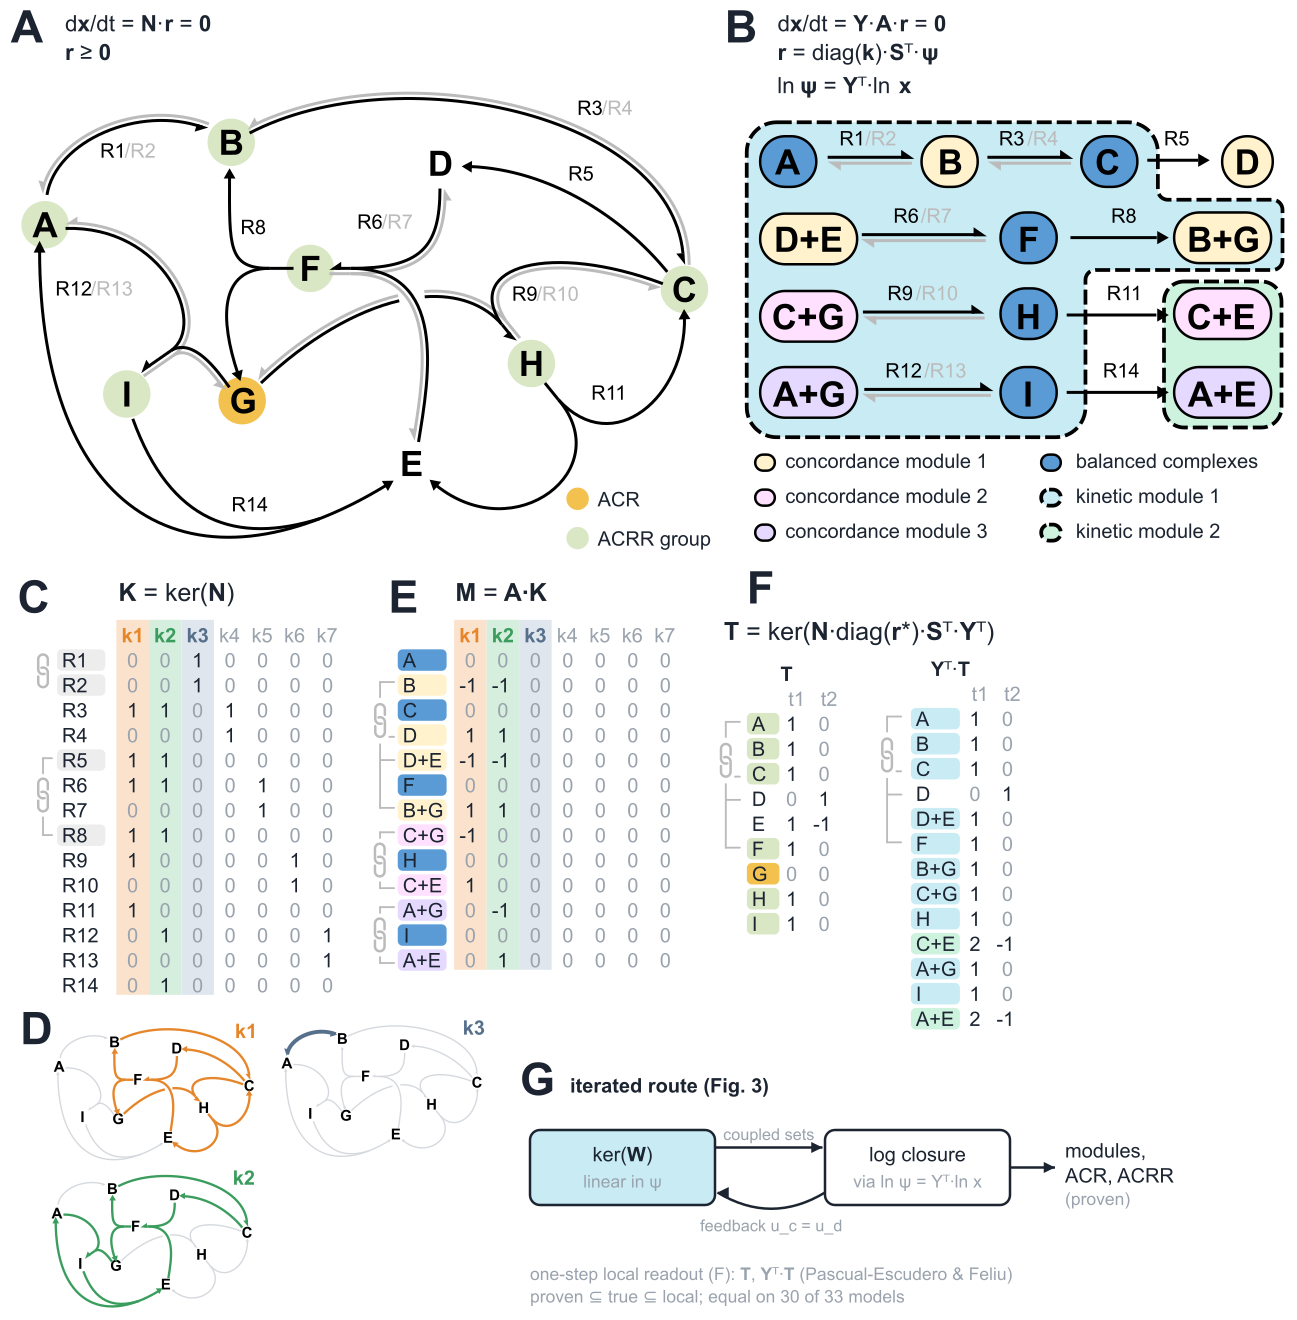
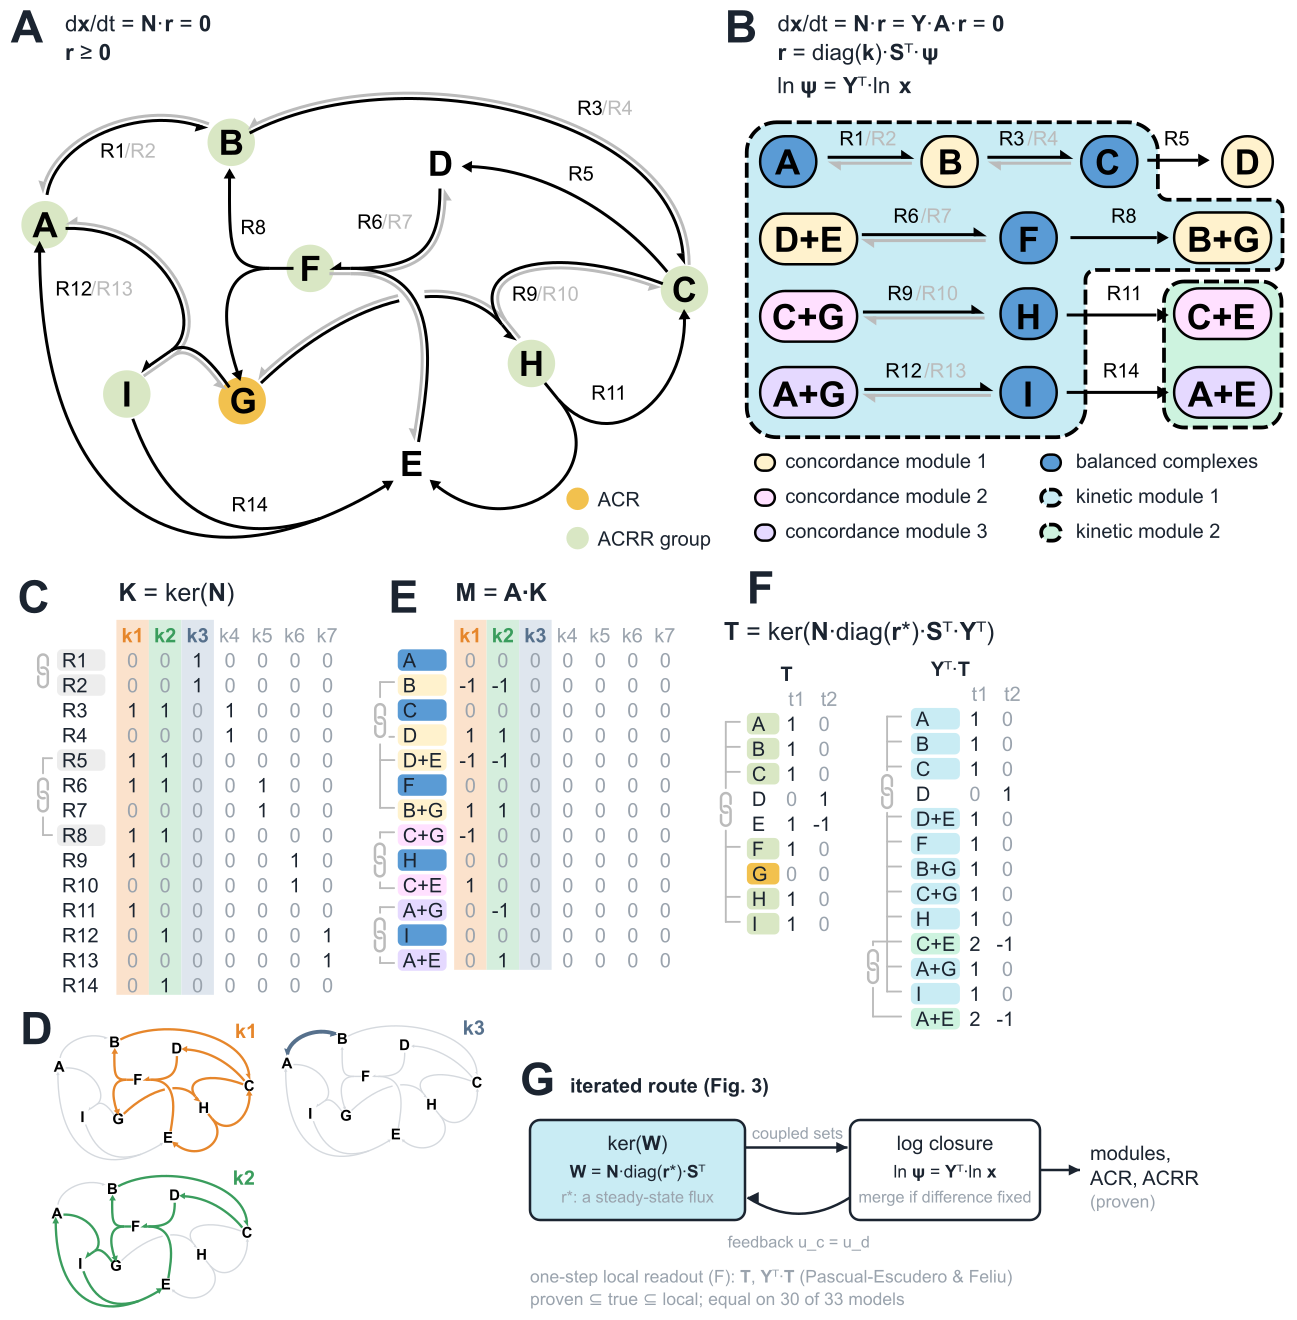
benchmarks: Figure 1 with N·r = Y·A·r, true coupling brackets in F, W in G
Panel B's first equation now reads dx/dt = N·r = Y·A·r = 0, linking A and
B. In F, the placeholder coupling brackets are replaced by the true groups in
Phil's bracket style: the ACRR group A, B, C, F, H, I in T, and kinetic
modules 1 and 2 in Y^T.T. Panel G spells out W = N·diag(r*)·S^T and the
log-closure rule.

Claude-Session: https://claude.ai/code/session_012qHMjDjg4uCKez4SPyk8Yi

diff --git a/benchmarks/docs/examples/network/figure1_round5.py b/benchmarks/docs/examples/network/figure1_round5.py
@@ -1,0 +1,80 @@
+"""Figure 1, round 5: dx/dt = N·r = Y·A·r = 0 above B; coupling brackets in F for the true groups; panel G
+redrawn with W spelled out. Applied to Phil's hand-edited SVG."""
+import re, sys
+src, out = sys.argv[1:3]
+s = open(src).read()
+INK, MUTE, GRAY, KIN, MINT = "#1b2430", "#9aa3ad", "#bbb", "#c9ecf4", "#cdf3df"
+REG, BOLD = 'font-family="ArialMT, Arial"', 'font-family="Arial-BoldMT, Arial" font-weight="700"'
+
+# ---- B: insert "N·r = " after "dx/dt = " (same advance widths as panel A's line), shift the rest
+W_INS = 79.53 - 56.274
+def shift(m):
+    x = float(m.group(1)); return f'translate({x + W_INS:.3f} 12.5)' if x >= 341 else m.group(0)
+i = s.index('<text transform="translate(341.274 12.5)"'); j = s.index('translate(373.53 12.5)') + 200
+seg = re.sub(r'translate\(([\d.]+) 12\.5\)', shift, s[i:j])
+ins = "".join(f'<text transform="translate({x:.3f} 12.5)" fill="{INK}" {f} font-size="9"><tspan x="0" y="0"{p}>{t}</tspan></text>\n      '
+              for x, f, t, p in [(341.274, BOLD, "N", ""), (347.773, REG, "·", ""), (350.771, BOLD, "r", ""),
+                                 (354.273, REG, " = ", ' xml:space="preserve"')])
+s = s[:i] + ins + seg + s[j:]
+
+# ---- F: replace the placeholder coupling brackets (grey lines and link icons left of T and Y^T.T)
+def in_f(el):
+    m = re.search(r'\bd="M\s*(-?[\d.]+)[ ,](-?[\d.]+)', el) or re.search(r'x1="(-?[\d.]+)"\s+y1="(-?[\d.]+)"', el)
+    if not m: return False
+    x, y = float(m.group(1)), float(m.group(2))
+    return 'stroke="#bbb"' in el and 270 <= y <= 420 and (285 <= x <= 300 or 352 <= x <= 362)
+link = re.search(r'<path d="M289\.698,302\.901[^>]*/>\s*<path d="M290\.939,305\.344[^>]*/>', s).group(0)
+s, n = re.subn(r'<(path|line)\b[^>]*/>', lambda m: "" if in_f(m.group(0)) else m.group(0), s)
+LINK_C = (290.318, 304.12)                       # centre of the link icon on its bracket line
+def bracket(x0, ys, icon_y, colour=GRAY, tick=5.608, gap=8.5):
+    """Phil's style: vertical line through the member rows, a tick at each member, link icon in a gap."""
+    L = lambda x1, y1, x2, y2: (f'<line x1="{x1:.3f}" y1="{y1:.3f}" x2="{x2:.3f}" y2="{y2:.3f}" fill="none" '
+                                f'stroke="{colour}" stroke-linecap="round" stroke-miterlimit="10" stroke-width=".75"/>')
+    top, bot = min(ys), max(ys)
+    o = [L(x0, top, x0, icon_y - gap), L(x0, icon_y + gap, x0, bot)]
+    o += [L(x0 + tick, y, x0, y) for y in ys]
+    icon = link.replace('stroke="#bbb"', f'stroke="{colour}"')
+    o.append(f'<g transform="translate({x0 - LINK_C[0]:.3f} {icon_y - LINK_C[1]:.3f})">{icon}</g>')
+    return "".join(o)
+T_off, YT_off = 3.634, 3.761
+T_rows = dict(zip("ABCDEFGHI", [292.383 + 10 * k for k in range(9)]))
+YT_names = ["A", "B", "C", "D", "D+E", "F", "B+G", "C+G", "H", "C+E", "A+G", "I", "A+E"]
+YT_rows = {c: 290.376 + 10 * k for k, c in enumerate(YT_names)}
+acrr = [T_rows[c] - T_off for c in "ABCFHI"]                      # one ACRR group; G is ACR on its own
+mod1 = [YT_rows[c] - YT_off for c in ["A", "B", "C", "D+E", "F", "B+G", "C+G", "H", "A+G", "I"]]
+mod2 = [YT_rows[c] - YT_off for c in ["C+E", "A+E"]]
+new_f = (bracket(290.318, acrr, T_rows["D"] - T_off + 5) +
+         bracket(354.839, mod1, YT_rows["D"] - YT_off) +
+         bracket(349.2, mod2, YT_rows["A+G"] - YT_off, tick=11.247))
+s = s.replace("</svg>", f'  <g id="coupling_brackets_F">{new_f}</g>\n</svg>')
+
+# ---- G: redraw with W written out
+s = re.sub(r'<g id="panel_G_iterated_route">.*?</g>\n', "", s, flags=re.S)
+def t(x, y, txt, size=8, fill=INK, bold=False, anchor=None):
+    a = f' text-anchor="{anchor}"' if anchor else ""
+    return f'<text x="{x}" y="{y}" {BOLD if bold else REG} font-size="{size}" fill="{fill}"{a} xml:space="preserve">{txt}</text>'
+b = lambda txt: f'<tspan {BOLD}>{txt}</tspan>'
+def box(x, y, w, h, fill): return f'<rect x="{x}" y="{y}" width="{w}" height="{h}" rx="4" ry="4" fill="{fill}" stroke="{INK}" stroke-width="1"/>'
+def arrow(x1, y1, x2, y2, curve=None):
+    sgn = 1 if x2 > x1 else -1
+    d = f'M{x1},{y1} Q{curve[0]},{curve[1]} {x2},{y2}' if curve else f'M{x1},{y1} L{x2},{y2}'
+    return (f'<path d="{d}" fill="none" stroke="{INK}" stroke-width="1"/>'
+            f'<polygon points="{x2},{y2} {x2 - 4.5 * sgn},{y2 - 2.2} {x2 - 4.5 * sgn},{y2 + 2.2}" fill="{INK}"/>')
+g = [f'<text transform="translate(208 438)" fill="{INK}" font-family="Helvetica-Bold, Helvetica" font-size="18" font-weight="700">G</text>',
+     t(228, 437, "iterated route (Fig. 3)", 8, INK, True),
+     box(212, 448, 86, 40, KIN),
+     t(255, 460, f'ker({b("W")})', 8, anchor="middle"),
+     t(255, 471, f'{b("W")} = {b("N")}·diag({b("r")}*)·{b("S")}ᵀ', 7, anchor="middle"),
+     t(255, 481, "r*: a steady-state flux", 6.5, MUTE, anchor="middle"),
+     box(340, 448, 76, 40, "#fff"),
+     t(378, 460, "log closure", 8, anchor="middle"),
+     t(378, 471, f'ln {b("ψ")} = {b("Y")}ᵀ·ln {b("x")}', 7, anchor="middle"),
+     t(378, 481, "merge if difference fixed", 6.5, MUTE, anchor="middle"),
+     arrow(298, 459, 339, 459), t(319, 455.5, "coupled sets", 6.5, MUTE, anchor="middle"),
+     arrow(340, 479, 299, 479, curve=(319.5, 492)), t(319.5, 499, "feedback u_c = u_d", 6.5, MUTE, anchor="middle"),
+     arrow(416, 468, 432, 468), t(436, 464, "modules,", 8), t(436, 474, "ACR, ACRR", 8), t(436, 483, "(proven)", 7, MUTE),
+     t(212, 513, f'one-step local readout (F): {b("T")}, {b("Y")}ᵀ·{b("T")} (Pascual-Escudero &amp; Feliu)', 7, MUTE),
+     t(212, 522, "proven ⊆ true ⊆ local; equal on 30 of 33 models", 7, MUTE)]
+s = s.replace("</svg>", '  <g id="panel_G_iterated_route">' + "".join(g) + "</g>\n</svg>")
+open(out, "w").write(s)
+print("removed placeholder elements:", n)
